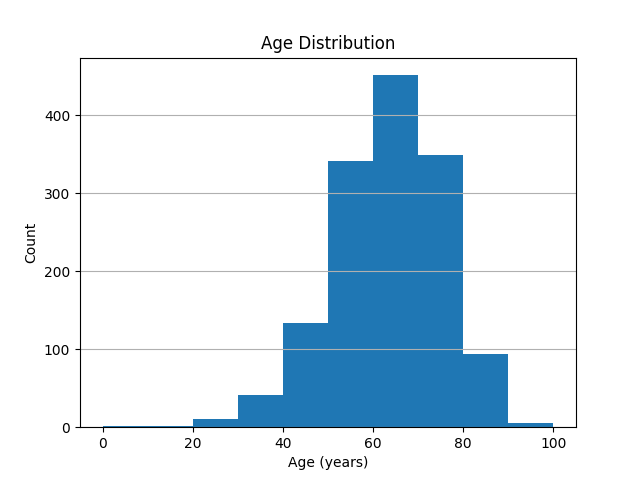
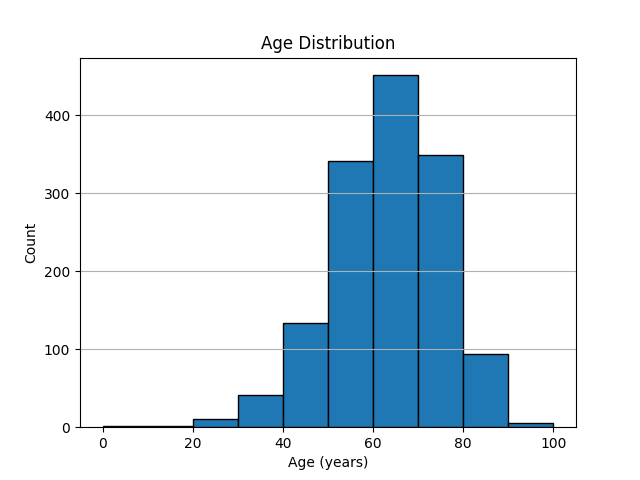
lines on ranges

Changed region(s): [[0.1562, 0.1562, 0.875, 0.9062]]

diff --git a/age_hist.py b/age_hist.py
@@ -15,8 +15,21 @@ df = df.dropna(subset=['age_at_Imaging (years)'])
 df_min = df.groupby('patient_id')['age_at_Imaging (years)'].min()
 
 # Plot histogram
+import numpy as np
+import matplotlib.pyplot as plt
+
+bins = np.arange(0, 101, 10)
+
+# Get histogram data
+counts, edges = np.histogram(df_min, bins=bins)
+
 plt.figure()
-plt.hist(df_min, bins=range(0, 101, 10))  # 10-year bins
+
+# Draw bars manually with edges
+plt.bar(edges[:-1], counts,
+        width=np.diff(edges),
+        align='edge',
+        edgecolor='black')   # <-- THIS is what you want
 
 plt.xlabel("Age (years)")
 plt.ylabel("Count")
@@ -24,7 +37,5 @@ plt.title("Age Distribution")
 
 plt.grid(axis='y')
 
-# Save image
 plt.savefig("age_hist.png")
-
 plt.show()
